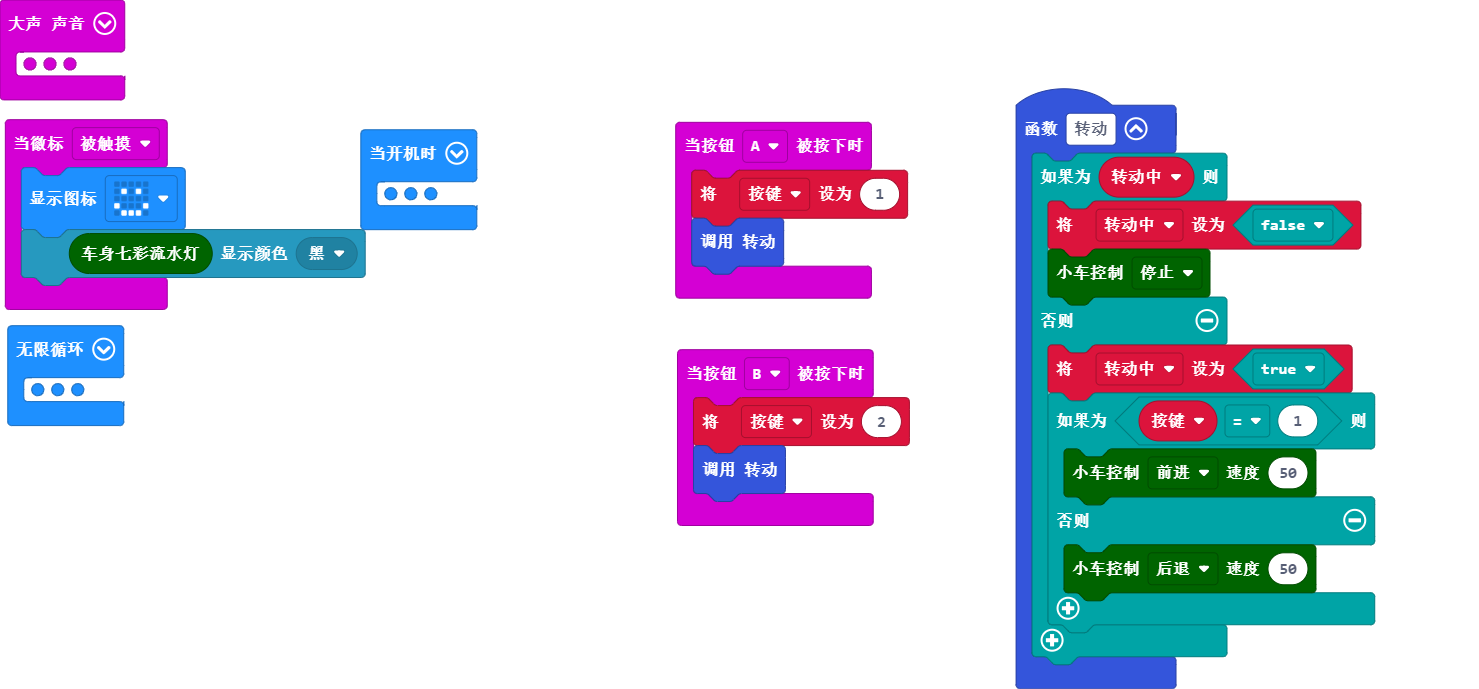
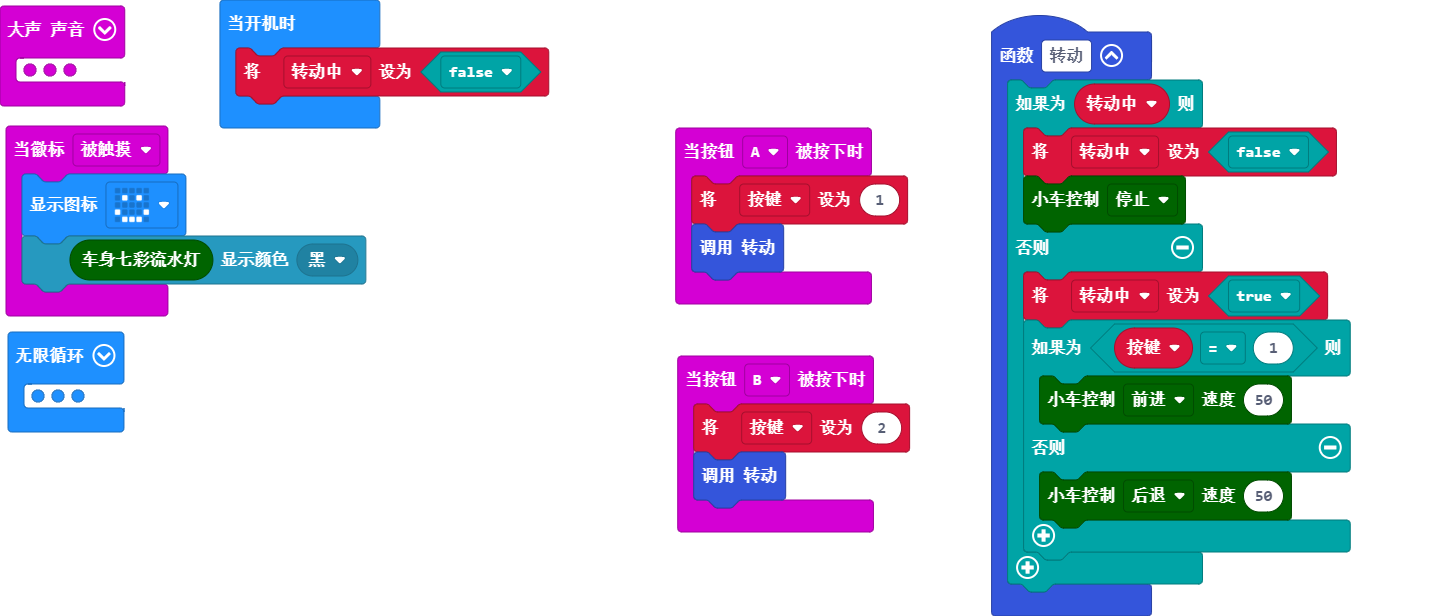
更新 main.blocks, main.py

diff --git a/main.py b/main.py
@@ -3,12 +3,38 @@ def on_logo_touched():
     Tinybit.RGB_Car_Program().show_color(neopixel.colors(NeoPixelColors.BLACK))
 input.on_logo_event(TouchButtonEvent.TOUCHED, on_logo_touched)
 
+def on_button_pressed_a():
+    global 按键
+    按键 = 1
+    转动()
+input.on_button_pressed(Button.A, on_button_pressed_a)
+
+def on_button_pressed_b():
+    global 按键
+    按键 = 2
+    转动()
+input.on_button_pressed(Button.B, on_button_pressed_b)
+
+def 转动():
+    global 转动中
+    if 转动中:
+        转动中 = False
+        Tinybit.car_ctrl(Tinybit.CarState.CAR_STOP)
+    else:
+        转动中 = True
+        if 按键 == 1:
+            Tinybit.car_ctrl_speed(Tinybit.CarState.CAR_RUN, 50)
+        else:
+            Tinybit.car_ctrl_speed(Tinybit.CarState.CAR_BACK, 50)
+
 def on_sound_loud():
     Tinybit.RGB_Car_Program().show_color(neopixel.rgb(randint(0, 0), randint(0, 255), randint(0, 255)))
     basic.pause(100)
 input.on_sound(DetectedSound.LOUD, on_sound_loud)
 
-basic.show_number(0)
+按键 = 0
+转动中 = False
+转动中 = False
 
 def on_forever():
     Tinybit.RGB_Car_Program().show_color(neopixel.rgb(randint(0, 255), 0, 0))
